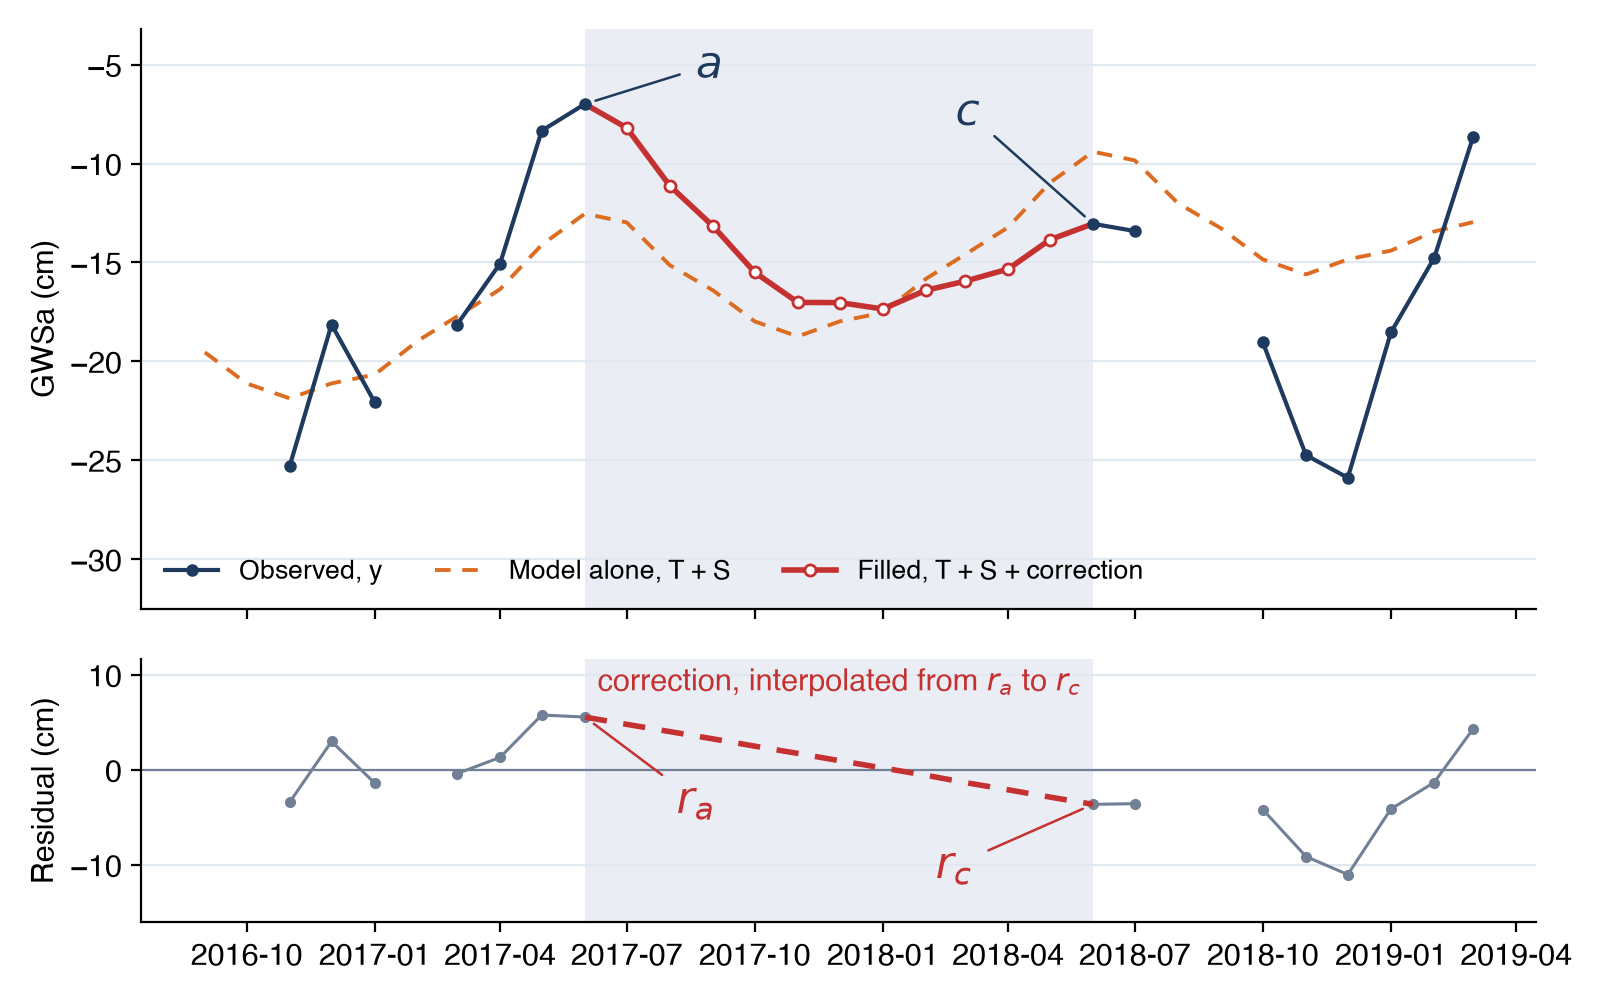
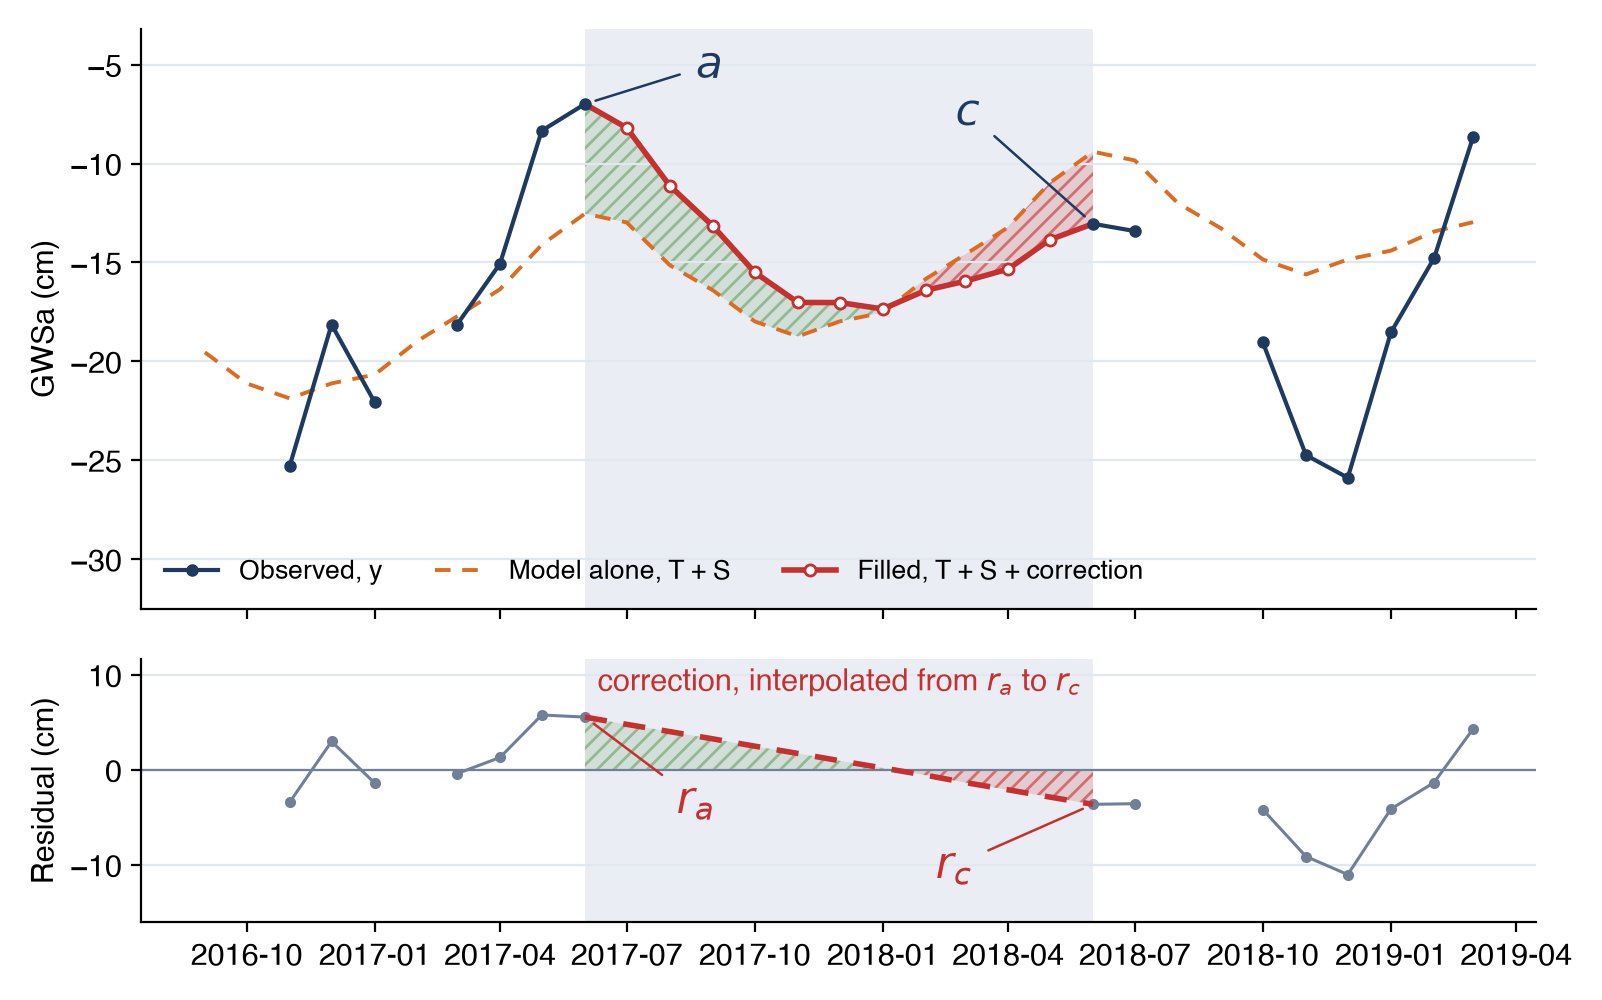
Hatch the correction between the fill and the model in the gap-correction figures
Green where the correction raises the fill, red where it lowers it, matched by
the same areas between the interpolated residual and zero.

diff --git a/tools/grace-figures/seasonal_model.py b/tools/grace-figures/seasonal_model.py
@@ -206,6 +206,13 @@ def pointer(axis, s, xy, off, col):
                   arrowprops=dict(arrowstyle="-", color=col, lw=0.9, shrinkA=4, shrinkB=4))
 
 
+def corr_area(axis, x, upper, base):
+    for where, col in ((upper >= base, C["green"]), (upper < base, C["red"])):
+        axis.fill_between(x, base, upper, where=where, interpolate=True, facecolor=col, alpha=0.18, lw=0, zorder=1)
+        axis.fill_between(x, base, upper, where=where, interpolate=True, facecolor="none", edgecolor=col, hatch="////",
+                          lw=0, alpha=0.6, zorder=1)
+
+
 def gap_figure(name, dates, observed, ts, resid, filled, a_date, c_date, start, end, offsets):
     """The residual correction across the gap between the observed months a and c."""
     win = (dates >= start) & (dates <= end)
@@ -221,6 +228,11 @@ def gap_figure(name, dates, observed, ts, resid, filled, a_date, c_date, start, 
     # a and c are observed months, so only the months between them get the filled marker
     ax.plot(dates[a:c + 1], filled[a:c + 1], color=C["red"], lw=2, marker="o", ms=4, mfc="white",
             markevery=range(1, c - a), label="Filled, T + S + correction", zorder=3)
+    # the correction: the area between the fill and the model alone, matched in the residual panel by the area
+    # between the interpolated residual and zero, green where it raises the fill and red where it lowers it
+    span = dates[a:c + 1]
+    corr_area(ax, span, filled[a:c + 1], ts[a:c + 1])
+    corr_area(axr, span, r_line, np.zeros_like(r_line))
     ax.set_ylabel("GWSa (cm)")
     ax.legend(loc="lower left", frameon=False, ncol=3, fontsize=9.5)
     pointer(ax, "$a$", (dates[a], observed[a]), offsets["a"], C["navy"])
